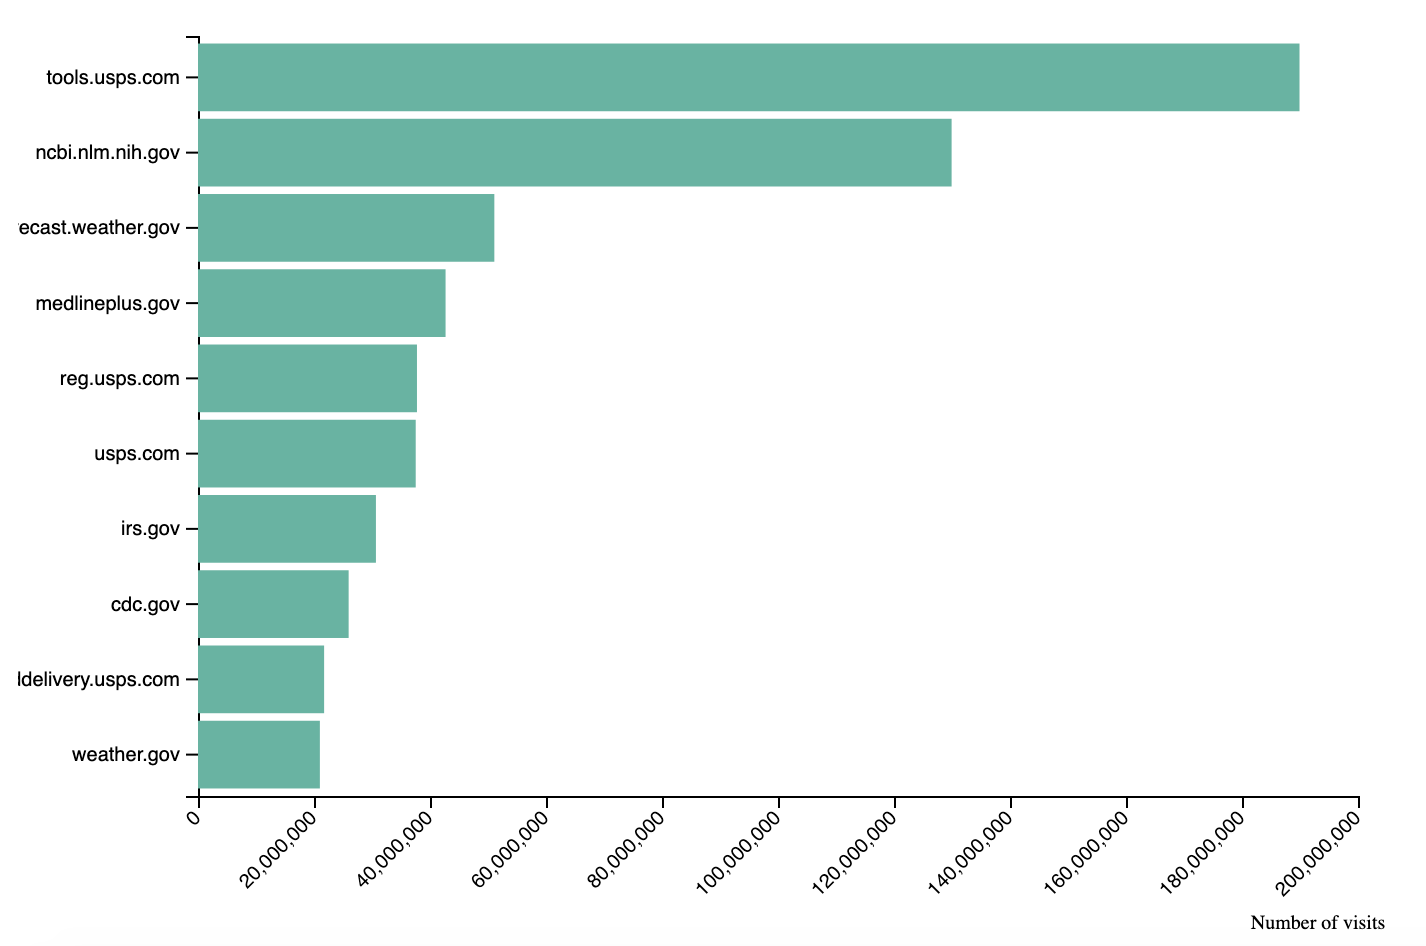
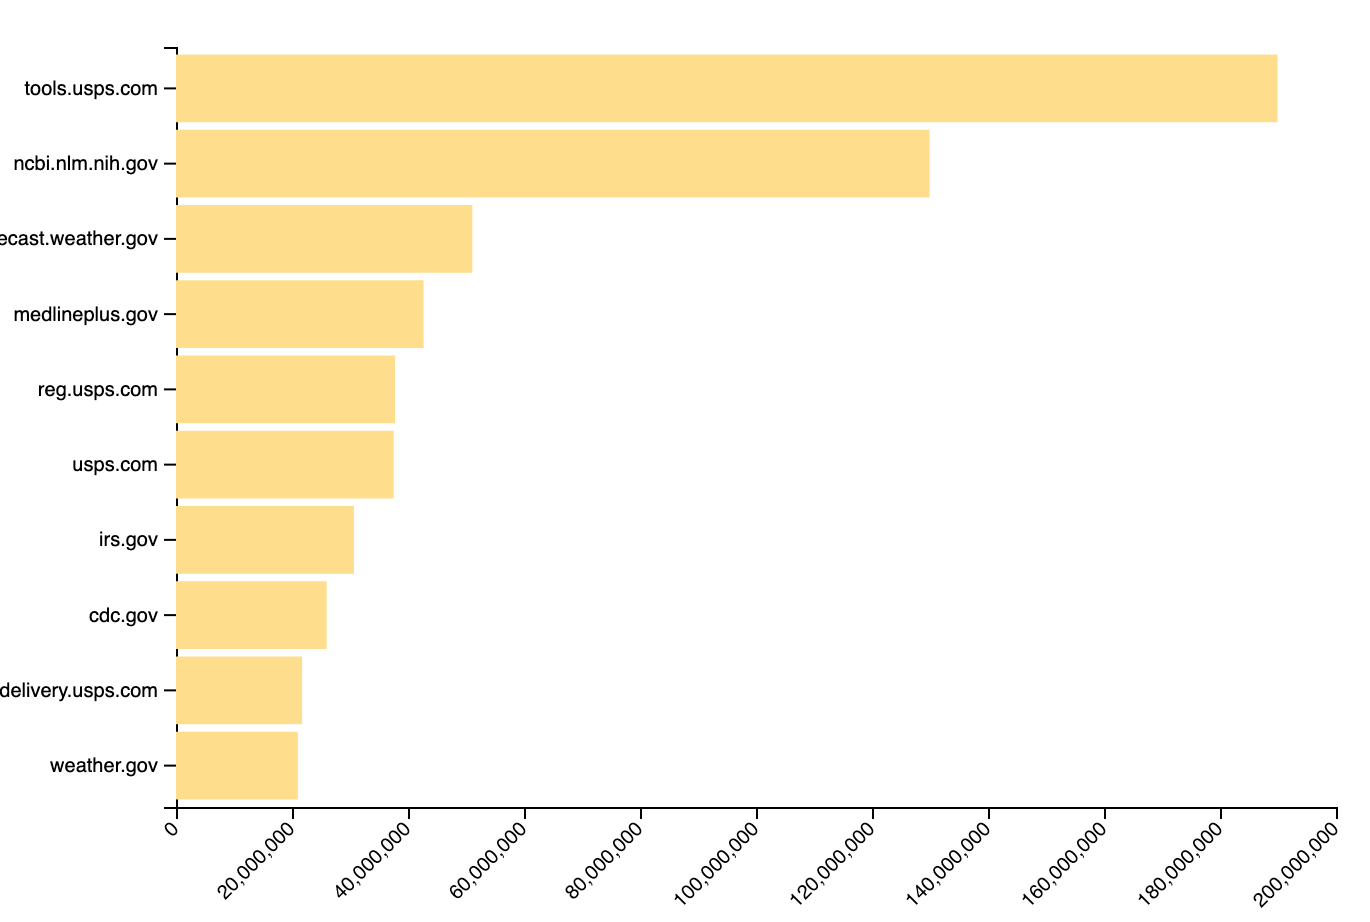
changes colour on completed graphs

Changed region(s): [[0.0, 0.0304, 0.981, 1.0]]

diff --git a/scripts/most_visited.js b/scripts/most_visited.js
@@ -43,7 +43,7 @@ d3.csv("../datasets/all_domains_output.csv", function(data) {
     .attr("y", function(d) { return y(d.Country); })
     .attr("width", function(d) { return x(d.Value); })
     .attr("height", y.bandwidth() )
-    .attr("fill", "#cce5df")
+    .attr("fill", "#FEDD8D")
 
   svg.append("text")
     .attr("x", (width-20))             

diff --git a/scripts/annual_wb_spend.js b/scripts/annual_wb_spend.js
@@ -36,7 +36,7 @@ d3.csv("../datasets/output_years_sorted.csv",
     // Add the area
     svg.append("path")
       .datum(data)
-      .attr("fill", "#cce5df")
+      .attr("fill", "#FEDD8D")
       .attr("stroke", "#69b3a2")
       .attr("stroke-width", 1.5)
       .attr("d", d3.area()
